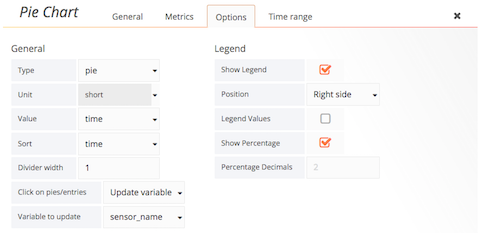
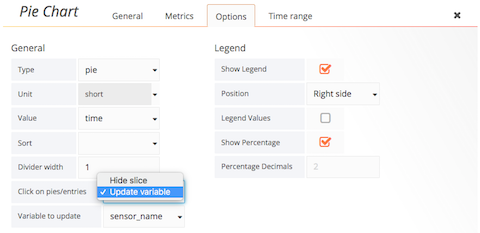
Update README.md

diff --git a/Gruntfile.js b/Gruntfile.js
@@ -16,12 +16,6 @@ module.exports = function(grunt) {
         src: ['**/*', '!**/*.js', '!**/*.scss'],
         dest: 'dist'
       },
-      // img_to_dist: {
-      //   cwd: 'src',
-      //   expand: true,
-      //   src: ['img/*'],
-      //   dest: 'dist/src/'
-      // },
       pluginDef: {
         expand: true,
         src: [ 'plugin.json', 'README.md' ],
@@ -56,6 +50,5 @@ module.exports = function(grunt) {
 
   });
 
-  // grunt.registerTask('default', ['clean', 'copy:src_to_dist', 'copy:img_to_dist', 'copy:pluginDef', 'babel']);
   grunt.registerTask('default', ['clean', 'copy:src_to_dist', 'copy:pluginDef', 'babel']);
 };

diff --git a/README.md b/README.md
@@ -1,33 +1,36 @@
-# Pie chart for Grafana 
+# Interactive pie chart for Grafana 
 
-A Grafana pie chart panel plugin based on [grafana/piechart-panel](https://github.com/grafana/piechart-panel). with additional functionality. It focuses on interacting with other Grafana panels via template variables and events. 
+A Grafana pie chart panel based on [grafana/piechart-panel](https://github.com/grafana/piechart-panel) with additional functionality. It focuses on interaction with other Grafana panels via template variables and internal events. 
 
 ## Update template variable
 
-You can choose what to do when you click on a slice in the pie chart or an entry in the legend. If you choose to update a template variable, you need to choose which variable to update.
+You can configure the behavior of clicking on a slice and a legend entry of the chart. You can choose between updating a template variable of your Grafana dashboard or hiding a slice in a pie chart. If you choose to update a template variable, you need to choose which variable to update.
 
-![Piechart - Update variable - Options](https://raw.githubusercontent.com/eastcirclek/piechart-panel/master/dist/img/piechart-update-variable-options.png)
+![Piechart - Update variable - Options](dist/img/piechart-update-variable-options.png)
 
-When you click on a slice, it adds the label of the slice to the list of selected values of a template variable; if the slice is already in the list, it removes the label from the list. The same thing happens when you click on an entry in the legend.
-![Piechart - Update variable](https://raw.githubusercontent.com/eastcirclek/piechart-panel/master/dist/img/piechart-update-variable.gif)
+When you click on a slice, it adds the label of the slice to the list of selected values of a template variable; if the slice is already in the list, it removes the label from the list. The same thing happens when you click on an entry in the legend; see demo below.
 
-## Update pie chart on graph-hover events from other panels
+![Piechart - Update variable](dist/img/piechart-update-variable.gif)
 
-![Piechart - Update pie chart - Metrics](https://raw.githubusercontent.com/eastcirclek/piechart-panel/master/dist/img/piechart-update-variable-metrics.png)
+## Update pie chart when receiving events from other panels
 
-Consider you group your time series by tag and do not specify an aggregate function for each group. [grafana/piechart-panel](https://github.com/grafana/piechart-panel) provides some options to aggregate values of each tag group on Grafana: min, max, avg, current (last), and total. 
+![Piechart - Update pie chart - Metrics](dist/img/piechart-update-piechart-metrics.png)
 
-![Piechart - Update pie chart - Options](https://raw.githubusercontent.com/eastcirclek/piechart-panel/master/dist/img/piechart-update-piechart-options.png)
+[grafana/piechart-panel](https://github.com/grafana/piechart-panel) is just a static chart. To use it, you first need to group time series by tag. Then you need to specify how to aggregate the values of each tag group using one of the aggregators: min, max, avg, current (last), and total. The panel shows the same chart unless configured with another aggregator. It does not respond to events from other panels.
 
-[eastcirclek/piechart-panel](https://github.com/eastcirclek/piechart-panel) allows users to draw a pie chart using a set of values for a specific time. It assumes that the time information comes from time-series panels like the default graph panel.
+[eastcirclek/piechart-panel](https://github.com/eastcirclek/piechart-panel) allows users to draw a dynamic pie chart. While you hover over other panels that generate the graph-hover events in which time information is embedded, a dynamic pie chart catches and parses the graph-hover events, and updates itself by using a set of values for the time. To enable this dynamic pie chart, you need to configure your pie chart as follows:
 
-![Piechart - Update pie chart - Options](https://raw.githubusercontent.com/eastcirclek/piechart-panel/master/dist/img/piechart-update-piechart.gif)
+![Piechart - Update pie chart - Options](dist/img/piechart-update-piechart-options.png)
+
+Below is an example of updating a dynamic pie chart by hovering over the default Grafana graph panel that generates graph-hover events.
+
+![Piechart - Update pie chart - Options](dist/img/piechart-update-piechart.gif)
  
-To prevent this panel from loading large data to your browser, you'd better specify grouping time as well as shown below:
+To prevent from loading large data to your browser, you need to group time-series not only by tag but also by time as shown below:
 
-![Piechart - Update pie chart - Metrics](https://raw.githubusercontent.com/eastcirclek/piechart-panel/master/dist/img/piechart-update-variable-metrics2.png)
+![Piechart - Update pie chart - Metrics](dist/img/piechart-update-piechart-metrics2.png)
 
-Then you'll have less frequent updates on pie chart.
+Then you'll have less frequent updates on your pie chart.
 
-![Piechart - Update pie chart - Options](https://raw.githubusercontent.com/eastcirclek/piechart-panel/master/dist/img/piechart-update-piechart2.gif)
+![Piechart - Update pie chart - Options](dist/img/piechart-update-piechart2.gif)
  

diff --git a/dist/README.md b/dist/README.md
@@ -1,33 +1,36 @@
-# Pie chart for Grafana 
+# Interactive pie chart for Grafana 
 
-A Grafana pie chart panel plugin based on [grafana/piechart-panel](https://github.com/grafana/piechart-panel). with additional functionality. It focuses on interacting with other Grafana panels via template variables and events. 
+A Grafana pie chart panel based on [grafana/piechart-panel](https://github.com/grafana/piechart-panel) with additional functionality. It focuses on interaction with other Grafana panels via template variables and internal events. 
 
 ## Update template variable
 
-You can choose what to do when you click on a slice in the pie chart or an entry in the legend. If you choose to update a template variable, you need to choose which variable to update.
+You can configure the behavior of clicking on a slice and a legend entry of the chart. You can choose between updating a template variable of your Grafana dashboard or hiding a slice in a pie chart. If you choose to update a template variable, you need to choose which variable to update.
 
-![Piechart - Update variable - Options](https://raw.githubusercontent.com/eastcirclek/piechart-panel/master/dist/img/piechart-update-variable-options.png)
+![Piechart - Update variable - Options](dist/img/piechart-update-variable-options.png)
 
-When you click on a slice, it adds the label of the slice to the list of selected values of a template variable; if the slice is already in the list, it removes the label from the list. The same thing happens when you click on an entry in the legend.
-![Piechart - Update variable](https://raw.githubusercontent.com/eastcirclek/piechart-panel/master/dist/img/piechart-update-variable.gif)
+When you click on a slice, it adds the label of the slice to the list of selected values of a template variable; if the slice is already in the list, it removes the label from the list. The same thing happens when you click on an entry in the legend; see demo below.
 
-## Update pie chart on graph-hover events from other panels
+![Piechart - Update variable](dist/img/piechart-update-variable.gif)
 
-![Piechart - Update pie chart - Metrics](https://raw.githubusercontent.com/eastcirclek/piechart-panel/master/dist/img/piechart-update-variable-metrics.png)
+## Update pie chart when receiving events from other panels
 
-Consider you group your time series by tag and do not specify an aggregate function for each group. [grafana/piechart-panel](https://github.com/grafana/piechart-panel) provides some options to aggregate values of each tag group on Grafana: min, max, avg, current (last), and total. 
+![Piechart - Update pie chart - Metrics](dist/img/piechart-update-piechart-metrics.png)
 
-![Piechart - Update pie chart - Options](https://raw.githubusercontent.com/eastcirclek/piechart-panel/master/dist/img/piechart-update-piechart-options.png)
+[grafana/piechart-panel](https://github.com/grafana/piechart-panel) is just a static chart. To use it, you first need to group time series by tag. Then you need to specify how to aggregate the values of each tag group using one of the aggregators: min, max, avg, current (last), and total. The panel shows the same chart unless configured with another aggregator. It does not respond to events from other panels.
 
-[eastcirclek/piechart-panel](https://github.com/eastcirclek/piechart-panel) allows users to draw a pie chart using a set of values for a specific time. It assumes that the time information comes from time-series panels like the default graph panel.
+[eastcirclek/piechart-panel](https://github.com/eastcirclek/piechart-panel) allows users to draw a dynamic pie chart. While you hover over other panels that generate the graph-hover events in which time information is embedded, a dynamic pie chart catches and parses the graph-hover events, and updates itself by using a set of values for the time. To enable this dynamic pie chart, you need to configure your pie chart as follows:
 
-![Piechart - Update pie chart - Options](https://raw.githubusercontent.com/eastcirclek/piechart-panel/master/dist/img/piechart-update-piechart.gif)
+![Piechart - Update pie chart - Options](dist/img/piechart-update-piechart-options.png)
+
+Below is an example of updating a dynamic pie chart by hovering over the default Grafana graph panel that generates graph-hover events.
+
+![Piechart - Update pie chart - Options](dist/img/piechart-update-piechart.gif)
  
-To prevent this panel from loading large data to your browser, you'd better specify grouping time as well as shown below:
+To prevent from loading large data to your browser, you need to group time-series not only by tag but also by time as shown below:
 
-![Piechart - Update pie chart - Metrics](https://raw.githubusercontent.com/eastcirclek/piechart-panel/master/dist/img/piechart-update-variable-metrics2.png)
+![Piechart - Update pie chart - Metrics](dist/img/piechart-update-piechart-metrics2.png)
 
-Then you'll have less frequent updates on pie chart.
+Then you'll have less frequent updates on your pie chart.
 
-![Piechart - Update pie chart - Options](https://raw.githubusercontent.com/eastcirclek/piechart-panel/master/dist/img/piechart-update-piechart2.gif)
+![Piechart - Update pie chart - Options](dist/img/piechart-update-piechart2.gif)
  
